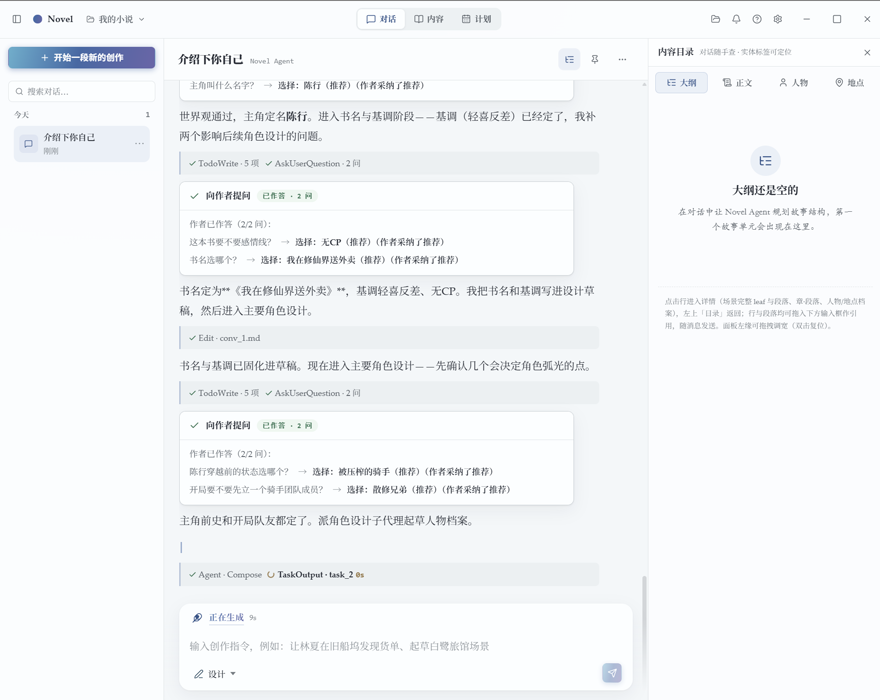
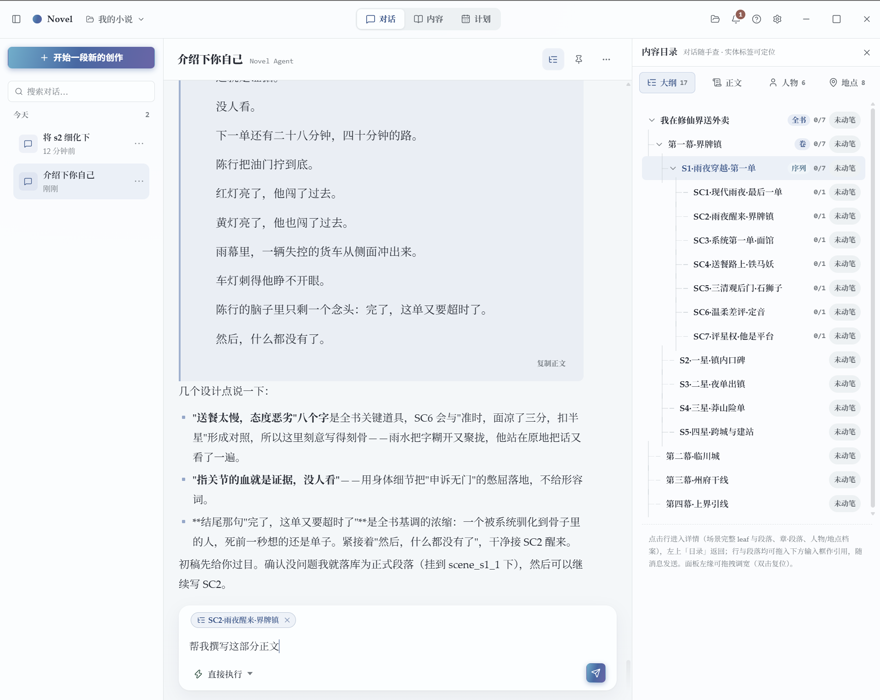
docs(readme): 对话格换拖拽引用截图——演示右侧目录实体拖入输入框作引用

diff --git a/README.md b/README.md
@@ -48,10 +48,10 @@
 | <img src="docs/assets/demo-approval.png" width="400" alt="审批清单"> | <img src="docs/assets/demo-ask.png" width="400" alt="AskUserQuestions 提问补充信息"> |
 | <sub>AI 的写库操作按轮汇总成审批清单——左清单右详情，可逐条批准、全部批准或稍后处理。</sub> | <sub>AI 主动向你提问、采集创意——提问卡阻塞等待你的答案，创意只由你定。</sub> |
 
-| 对话主界面 | 内容 · 大纲 |
+| 对话 · 拖拽引用 | 内容 · 大纲 |
 | --- | --- |
-| <img src="docs/assets/demo-chat.png" width="400" alt="对话主界面"> | <img src="docs/assets/demo-outline.png" width="400" alt="内容 · 大纲"> |
-| <sub>与 Agent 对话推进剧情；右侧内容目录中的人物、地点等实体可拖入输入框，作为引用交给 Agent。</sub> | <sub>大纲是叙事单位——故事核的树状组织，查询大纲即可获取相关事实源。</sub> |
+| <img src="docs/assets/demo-chat.png" width="400" alt="对话 · 拖拽引用"> | <img src="docs/assets/demo-outline.png" width="400" alt="内容 · 大纲"> |
+| <sub>右侧内容目录中的人物、地点等实体可拖入输入框，作为引用交给 Agent。</sub> | <sub>大纲是叙事单位——故事核的树状组织，查询大纲即可获取相关事实源。</sub> |
 
 | 内容 · 正文 | 内容 · 人物档案 |
 | --- | --- |
